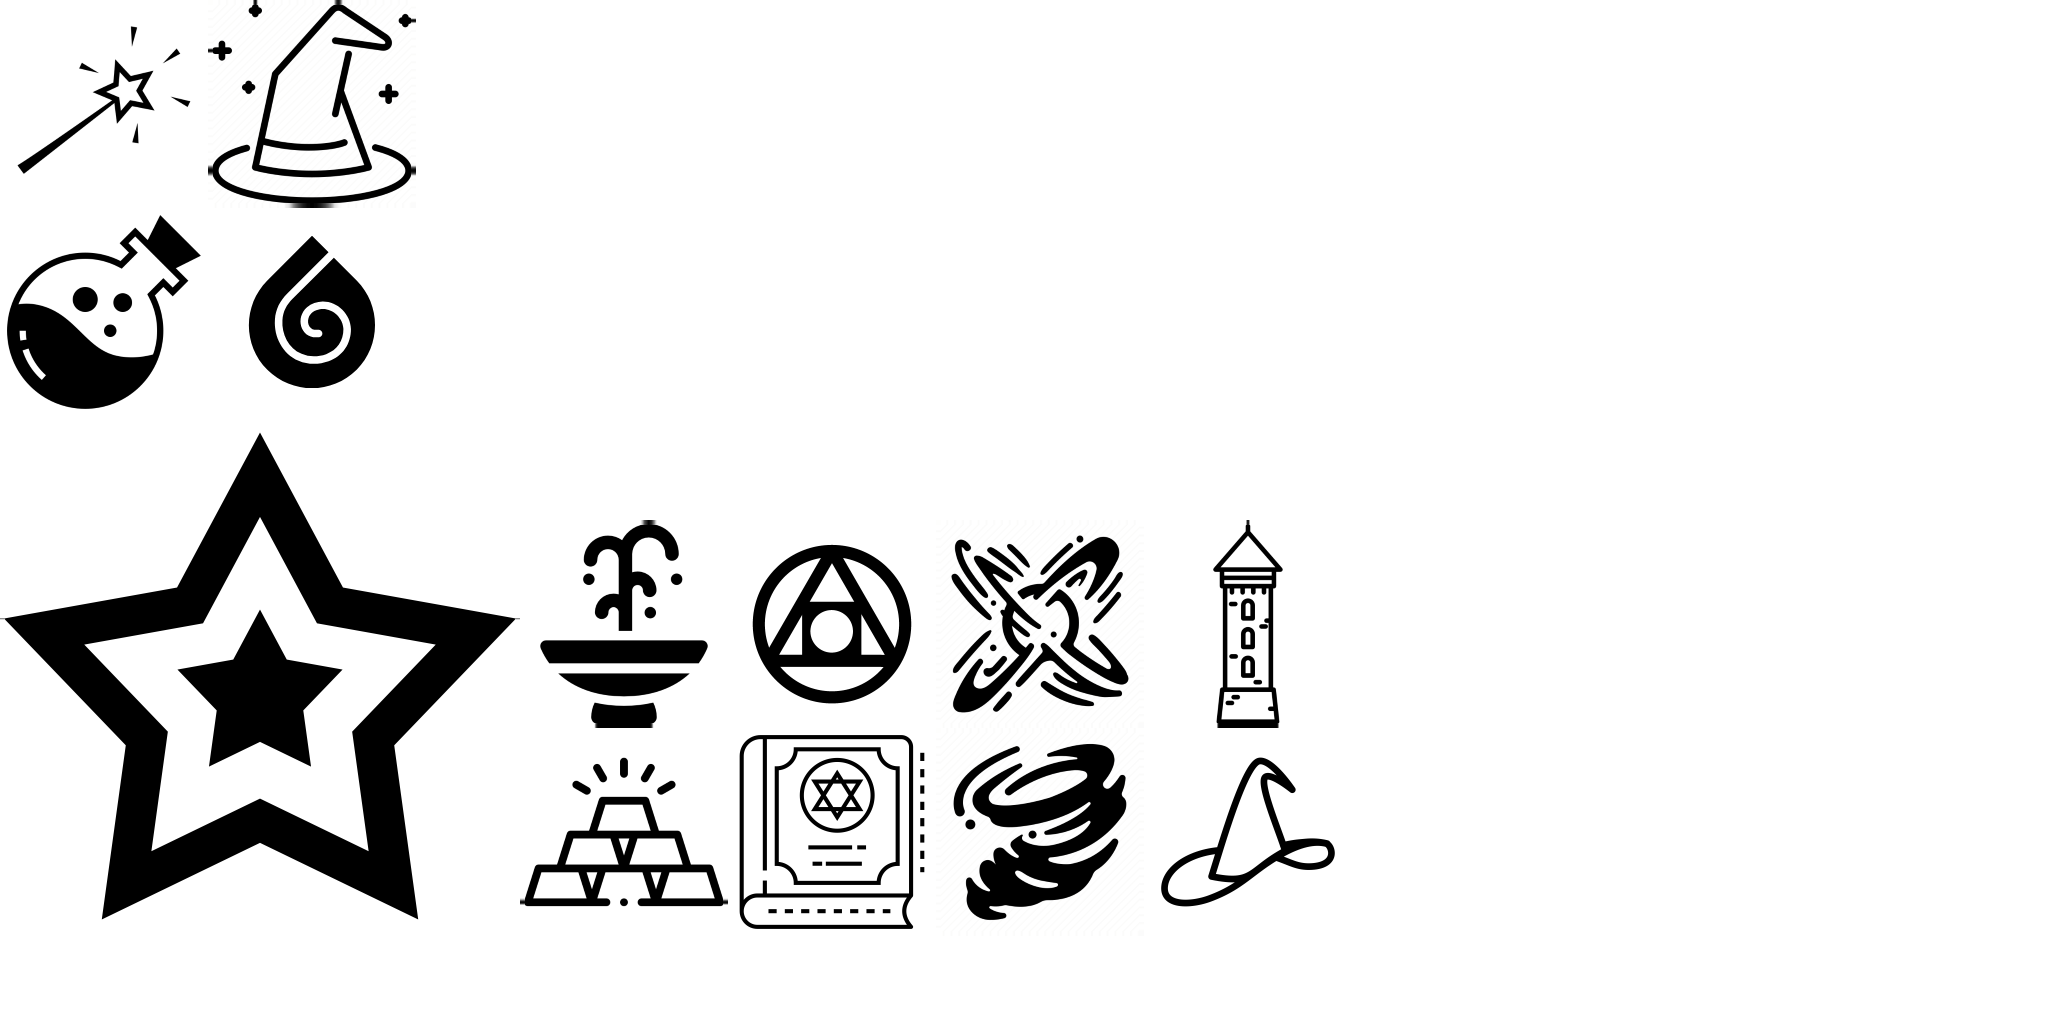
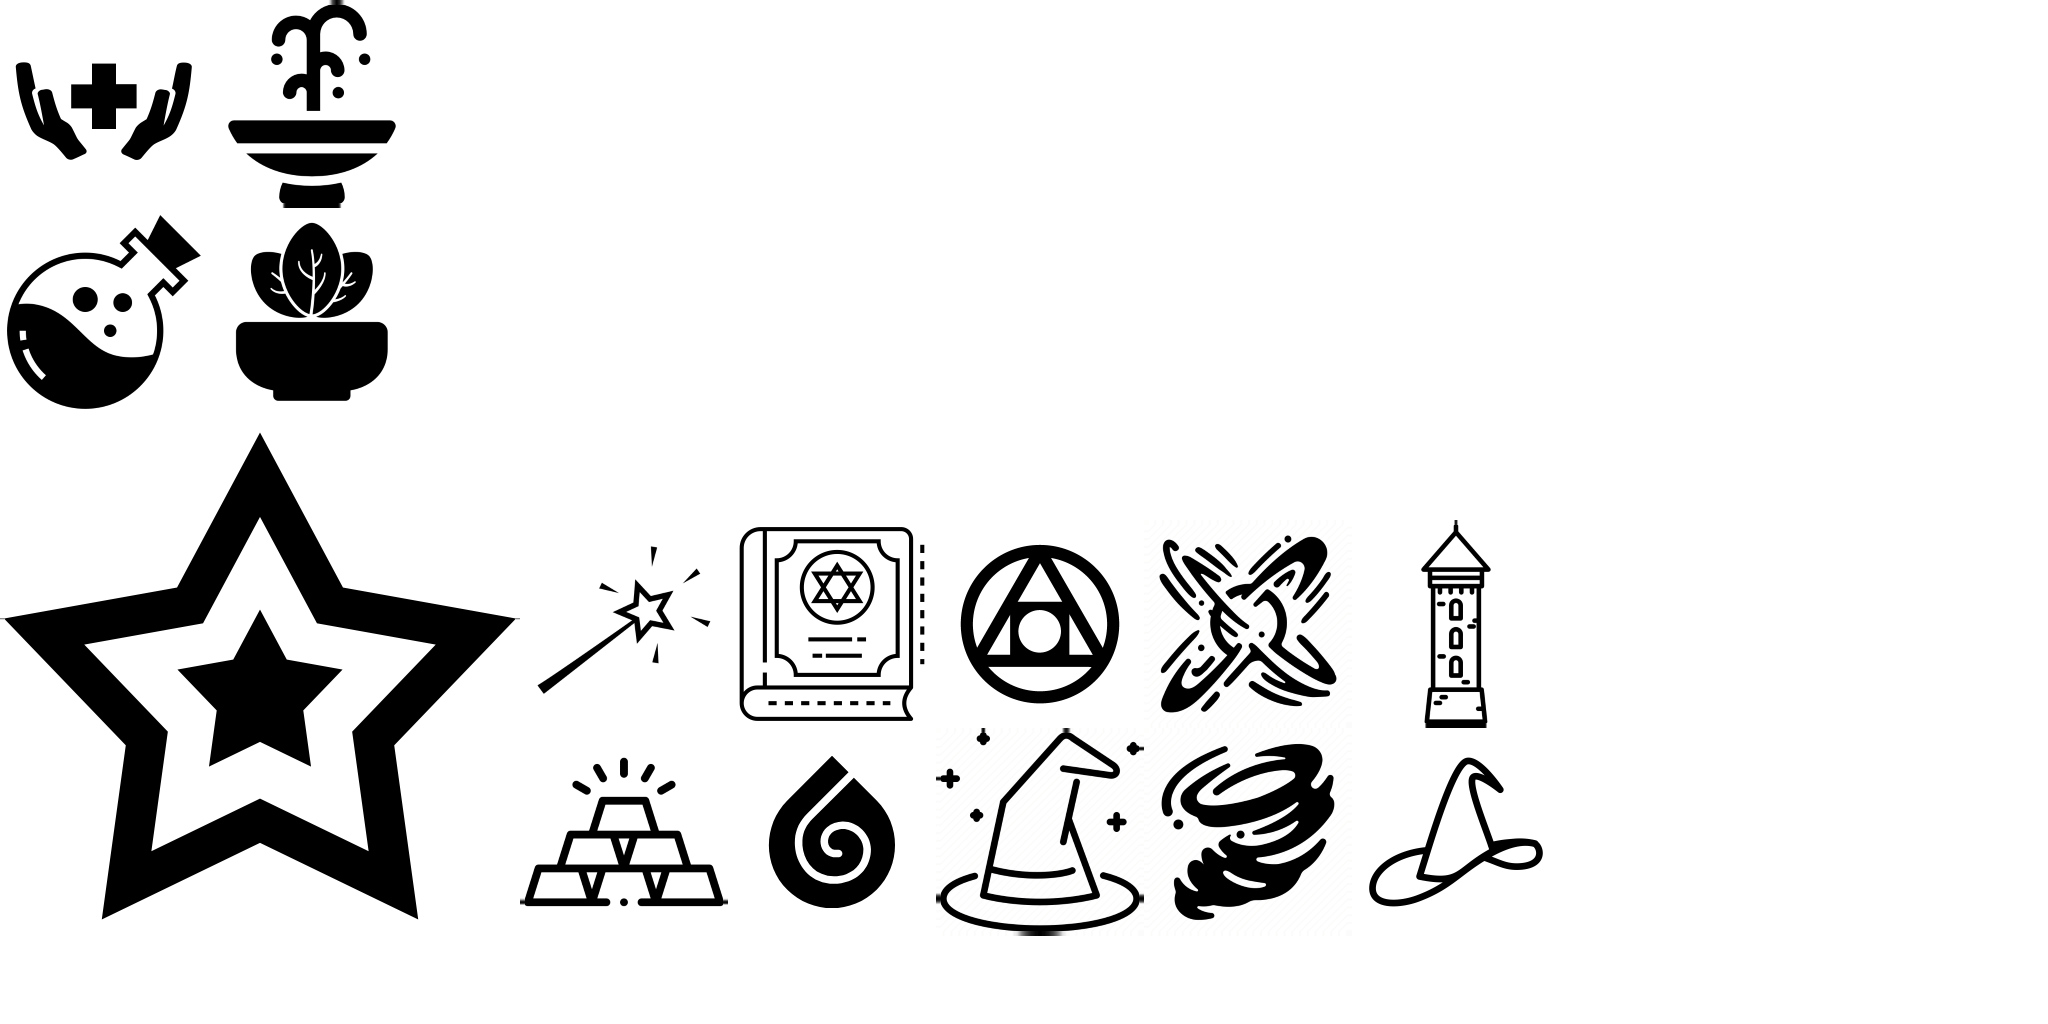
Added herbalism

Changed region(s): [[0.25, 0.5, 0.75, 0.9375], [0.0, 0.0, 0.2188, 0.4062], [0.6875, 0.5, 0.75, 0.7188]]

diff --git a/README.md b/README.md
@@ -1,4 +1,4 @@
 An addon to Unciv designed to add magic to it
 The images are not made or owned by me, so you can find the urls to the images in the Credits.txt file
 
-I do not recomend playing any of the difficultys above God, maybe overgod if you want a almost impossable challenge. The other diffucultys are not balenced and were designed mostly just to be funny. I am almost certain that Nightmare king mode is impossable, but it might be fun to see how far you can get.
+I only recomend playing any of the Nightmare difficultys if you are very good and have beaten deity and want an extra challenge. 
